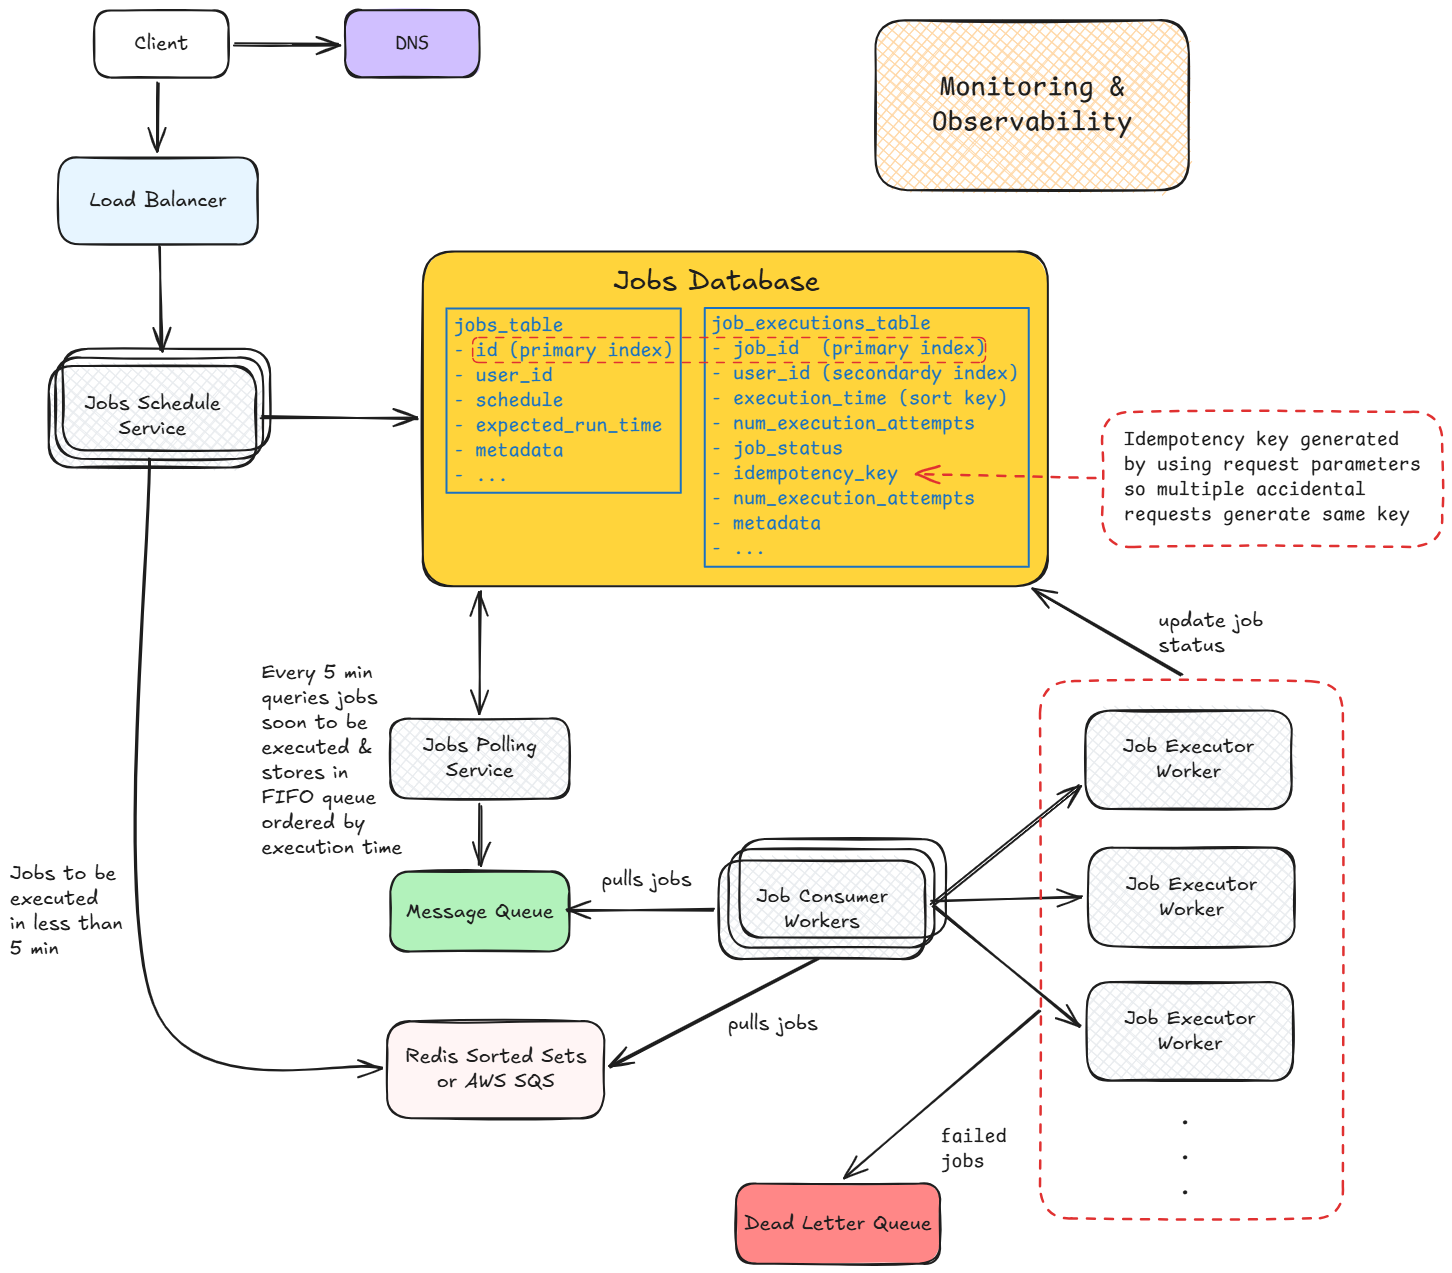
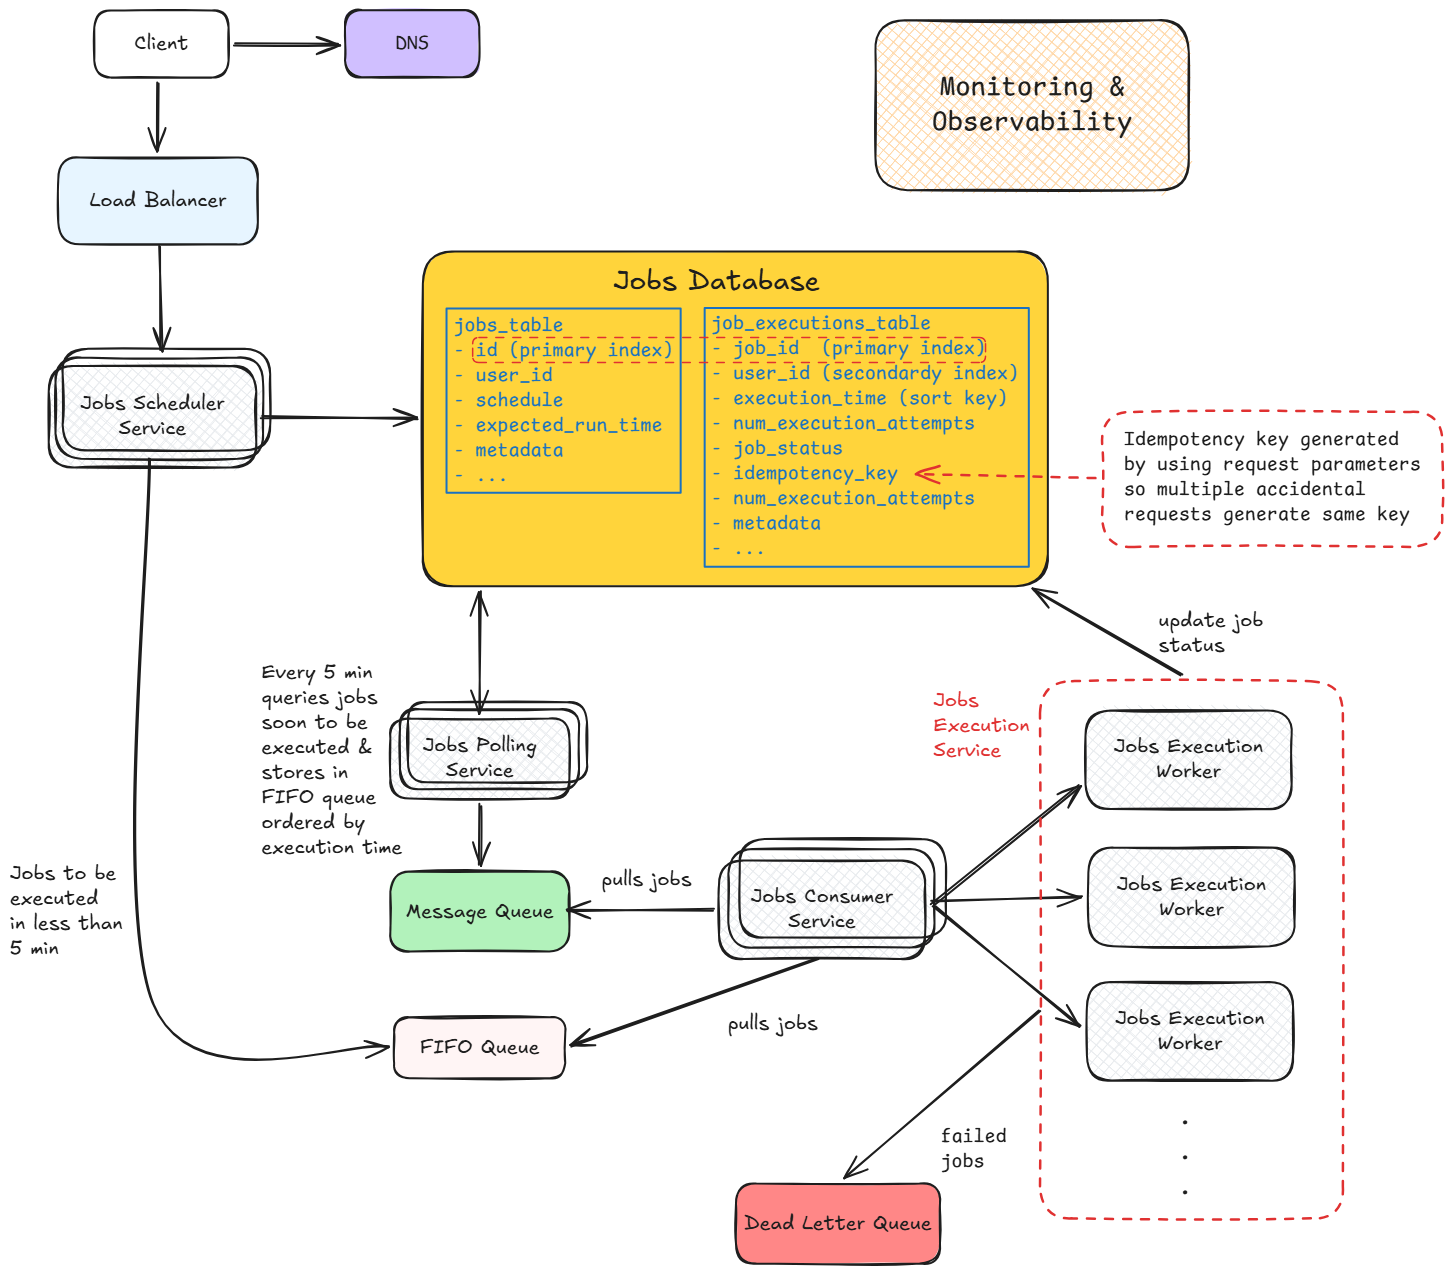
fixed typos in application architecture

diff --git a/application/01-jobs-scheduler-service/README.md b/application/01-jobs-scheduler-service/README.md
@@ -1,4 +1,4 @@
-# Job Scheduler MVP
+# Jobs Scheduler MVP
 
 A small Node.js + Express + EJS job scheduler with a responsive dashboard and JSON API.
 
